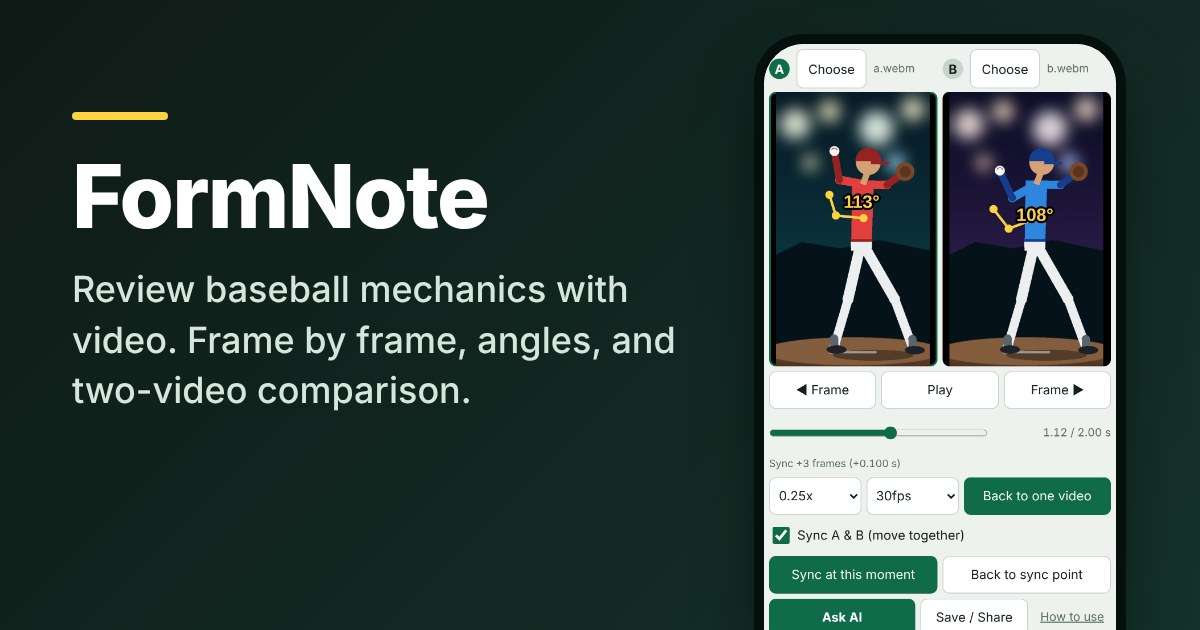
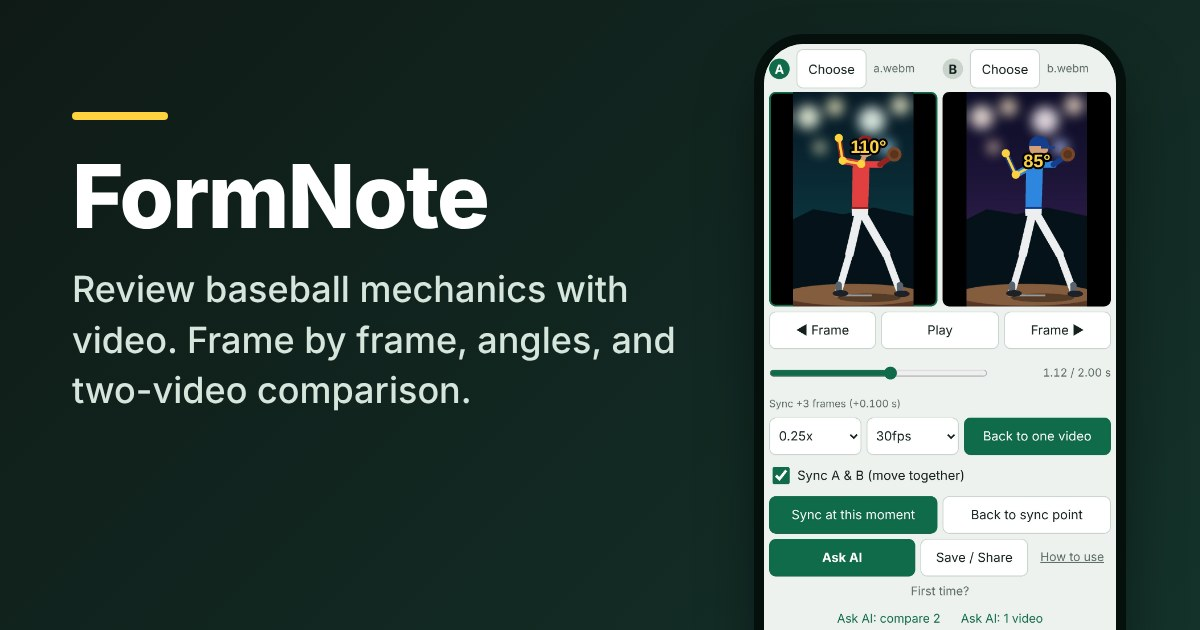
Add files via upload

Changed region(s): [[0.6167, 0.1508, 0.925, 1.0]]

diff --git a/help.html b/help.html
@@ -57,7 +57,7 @@ footer{margin-top:2.4rem;color:var(--mute);font-size:.92rem}
 <p class="lead">FormNote is a free tool for reviewing baseball mechanics on video. Line up two clips on the same moment, such as yourself and a model, or last week and this week, and <span class="nb">step through them frame by frame.</span> Videos are processed only on your device.</p>
 <a class="btn" href="./">Open the app</a>
 
-<img class="shot" src="screenshot.jpg" width="1236" height="2745" alt="FormNote showing two pitching clips side by side, with the elbow angle measured on each (110 and 89 degrees), three frames after the sync point and showing “Sync +3 frames”.">
+<img class="shot" src="screenshot.jpg" width="1236" height="2745" alt="FormNote showing two pitching clips side by side, with the elbow angle measured on each (110 and 85 degrees), three frames after the sync point and showing “Sync +3 frames”.">
 <p class="cap">Two clips lined up on the same sync point and stepped forward 3 frames. Sample clips are illustrations, not real players.</p>
 <h2>What FormNote is good at</h2>
 <div class="feat"><div class="card"><span class="no">1</span><h3>Line up both clips <wbr>at the key moment</h3><p>Pause A and B on the moment of contact or release and tap “Sync at this moment”. That moment becomes zero, and you can step before and after it in both clips together. Even if the clips start at different times, you compare the same moment.</p></div><div class="card"><span class="no">2</span><h3>One tap, <wbr>exactly one frame</h3><p>Built so that one tap moves exactly one frame in 30, 120 or 240 fps clips. Fast swings and pitches can be followed without skipping. Drawings are fixed to the screen, so you can check body movement against a reference line.</p></div><div class="card"><span class="no">3</span><h3>Share or ask AI <wbr>about the result</h3><p>Tap “Ask AI” to get 4 images around the moment and a ready-made question (good points, concerns, drills) to send to the AI app you prefer. “Save / Share” sends images to chat apps.</p></div></div>
